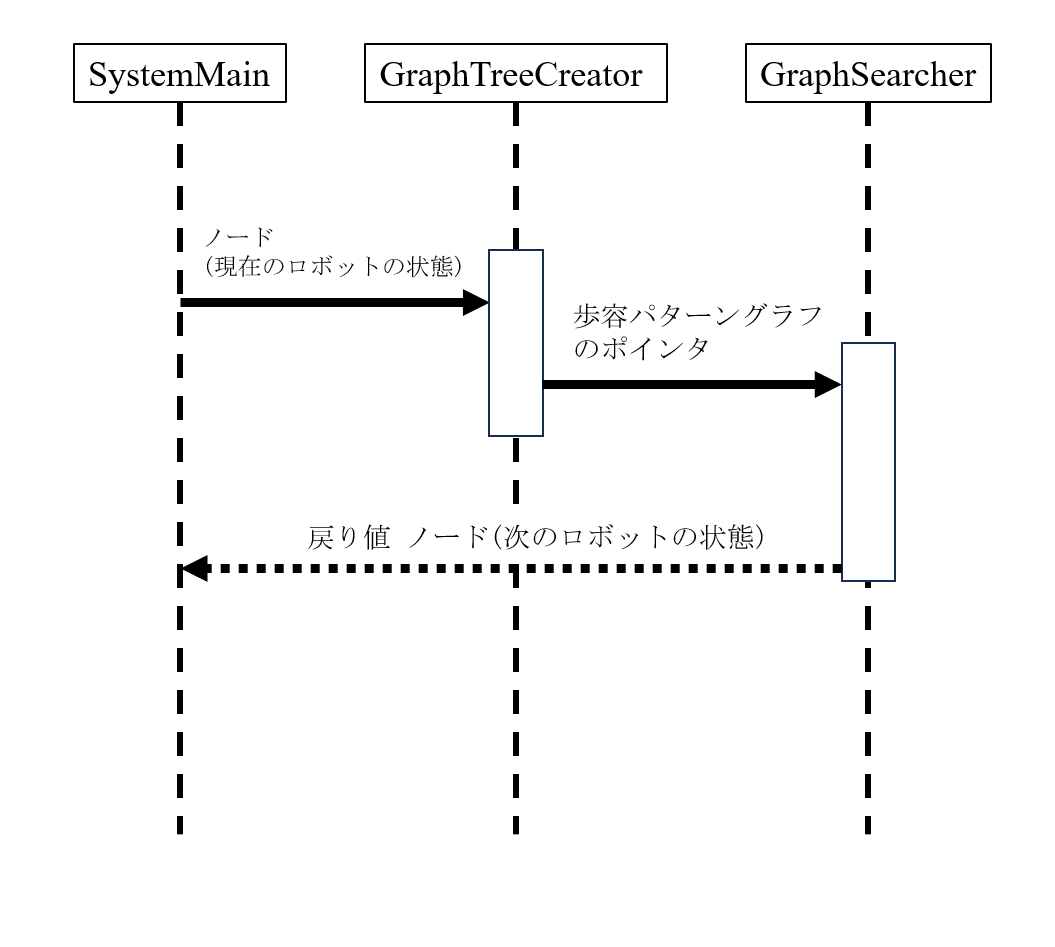
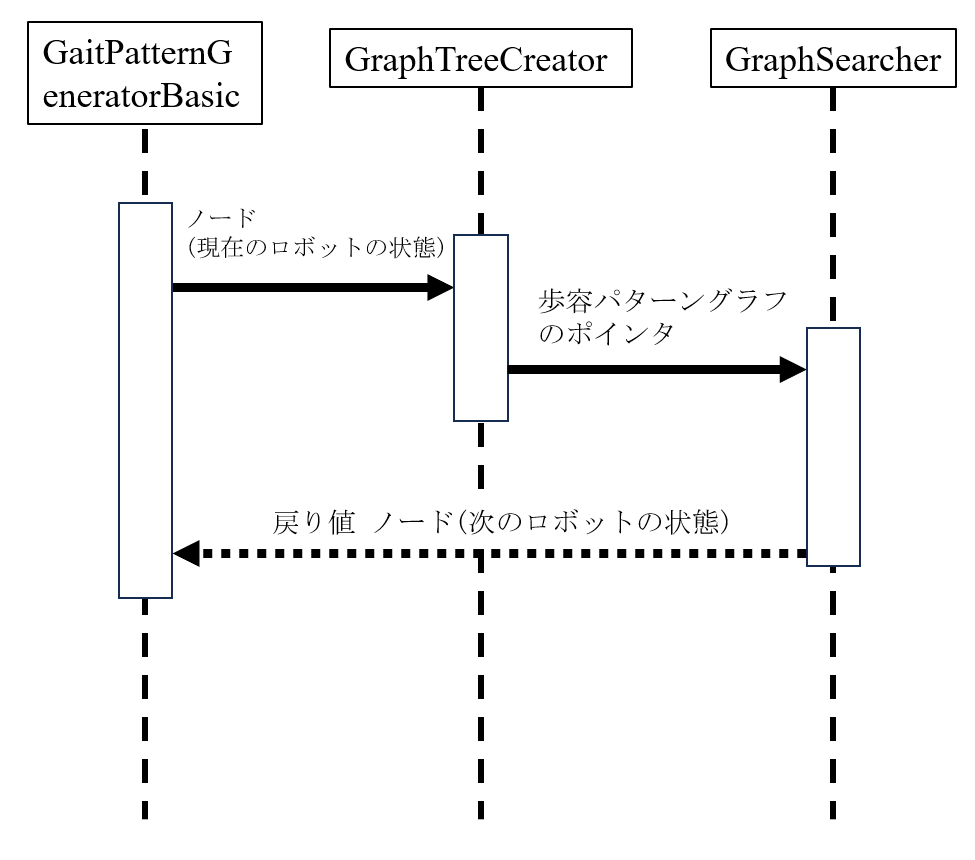
10:31

diff --git a/text/chapter3.tex b/text/chapter3.tex
@@ -43,7 +43,7 @@ GraphSearcherクラスは渡された歩容パターングラフを探索し，
 \figref{fig:graph_search_class_diagram}にグラフ探索による自由歩容パターン生成手法を実装したクラスのクラス図を示す．
 GaitPatternGeneratorBasicクラスは，自由歩容パターン生成手法を実装したクラスである．
 GaitPatternGeneratorBasicクラスは，IGaitPatternGeneratorインターフェイスを継承しており，
-メンバ関数としてGetNextNodeByGraphSearch関数を持っている．
+GetNextNodeByGraphSearch関数を実装している．
 GetNextNodeByGraphSearch関数は，現在のロボットの状態を表すノードを引数，
 地形の情報，目標位置・目標姿勢を引数に取り，グラフ探索によって最適な歩容パターンを返す．
 IGaitPatternGeneratorインターフェイスを介することで，
@@ -116,11 +116,21 @@ IGraphSearcherインターフェイスは，グラフ探索を行う処理を表
 \newpage
 
 \subsection{ノードを表現する構造体}
-次に，歩容パターングラフを作成する処理を記述するために，ノードについて説明する．
+歩容パターングラフを作成する処理を記述するために，ノードの実装について説明する．
+この章における説明では，変数の型のサイズについて言及しているが，
+C++はコンパイラや環境によって変数の型のサイズは異なる場合があるため，
+本研究で使用しているVisual~Studio~2022のMSVCコンパイラにおけるサイズを示していることを注意されたい．
+
 歩容パターングラフのノードは\figref{fig:robot_state_node}のような，
 ロボットの状態を表す構造体RobotStateNodeで表現した．
+この構造体は先行研究でLNODE構造体として実装されていたものと概ね同じである．
 歩容パターングラフではRobotStateNodeを配列とすることで作成するため，
 RobotStateNode構造体はサイズを小さくし，メモリの使用量を少なくすることが求められる．
+そのため浮動小数点型の変数はすべてdouble型ではなく，float型で表現している．
+double型とfloat型のサイズはそれぞれ8byteと4byteであり，float型のほうがサイズは小さい．
+float型の精度はdouble型より低く，有効数字は6桁程度であるが，
+ロボットの状態を表す変数の精度は6桁程度で十分であるため，
+float型を用いている．
 
 RobotStateNodeのメンバ変数leg\_stateは，ロボットの脚の状態を表すビット列である．
 C++の標準ライブラリのstd::bitsetを用いて実装されており，28ビットの長さを持つ．
@@ -138,7 +148,7 @@ center\_of\_mass\_global\_coordとpostureは，
 グローバル座標におけるロボットの重心位置と姿勢を表すVector3構造体とQuaternion構造体である．
 Quaternion構造体は，クォータニオンを表す構造体であり，\figref{fig:quaternion}のように定義されている．
 
-next\_moveは，次に行う動作を表すHexapodMove列挙型である．
+next\_moveは，次に行う動作を表す列挙型のHexapodMove型で宣言された変数である．
 先行研究ではint型で表現していたが，可読性の向上のために列挙型を用いている．
 parent\_indexは，親ノードのインデックスを表すint型である．
 先行研究では親ノードへのポインタを用いていたが，

diff --git a/main.tex b/main.tex
@@ -27,7 +27,7 @@
 \usepackage{subfigure}
 \usepackage{bm} %ベクトル表示
 \usepackage{slashbox}  % https://qiita.com/ta_b0_/items/2619d5927492edbb5b03
-\usepackage{listings, jvlisting}
+\usepackage{listings, jlisting}
 \usepackage{url}
 \usepackage[final,dvipdfmx]{pdfpages}
 \usepackage{pgf-umlcd}
@@ -84,6 +84,8 @@
 \newcommand{\figpref}[1]{(Fig.\ref{#1} p.\pageref{#1})}
 \newcommand{\degree}{\char'27\kern-.3em\hbox{C}} 
 
+\newcommand{\coderef}{\lstlistingname~\ref}
+
 \newcommand{\hang}[1]{%
 	\settowidth{\hangindent}{#1}%
 	#1%
@@ -103,6 +105,8 @@
 \renewcommand{\umltextcolor}{black}
 \renewcommand{\umlfillcolor}{white}
 \renewcommand{\umldrawcolor}{black}
+
+\renewcommand{\lstlistingname}{Code}
 
 %余白変更
 \setlength{\textwidth}{\fullwidth}
@@ -127,8 +131,8 @@
     %!!重要!!
     %各章は奇数ページから開始するように調整すること
     %つまり各章は偶数ページで終わるように、改ページ等を使用して調整する。
-    \input{text/chapter1.tex} % 第1章
-    \input{text/chapter2.tex} % 第2章
+    %\input{text/chapter1.tex} % 第1章
+    %\input{text/chapter2.tex} % 第2章
     \input{text/chapter3.tex} % 第3章
     \input{text/chapter4.tex} % 第4章
     \input{text/chapter5.tex} % 第5章

diff --git a/text/chapter1.tex b/text/chapter1.tex
@@ -60,7 +60,7 @@
 以上より，脚ロボットは対地適応性が高く，環境に与える影響が小さいため，
 不整地での移動に適しているといえる．
 
-\begin{figure}[htbp]
+\begin{figure}[b]
   \begin{center}
     \includegraphics[width=90mm, clip]{figure/chapter1/NEDO.png}
     \caption{Demonstration Experiment with Spot}
@@ -68,7 +68,7 @@
   \end{center}
 \end{figure}
 
-\begin{figure}[htbp]
+\begin{figure}[t]
   \begin{center}
     \includegraphics[width=90mm, clip]{figure/chapter1/crabster.png}
     \caption{Crabster}
@@ -84,6 +84,8 @@
   \item 脚の機構はアクチュエータの数が多いため，重量が大きくなってしまう
   \item 移動には歩行のための制御が必要であり，タイヤやクローラに比べて制御が複雑になる
 \end{itemize}
+
+\newpage
 
 多脚ロボットの積極的な活用を考えると，脚の機構の軽量化と，
 歩行のための制御の手法が必要である．
